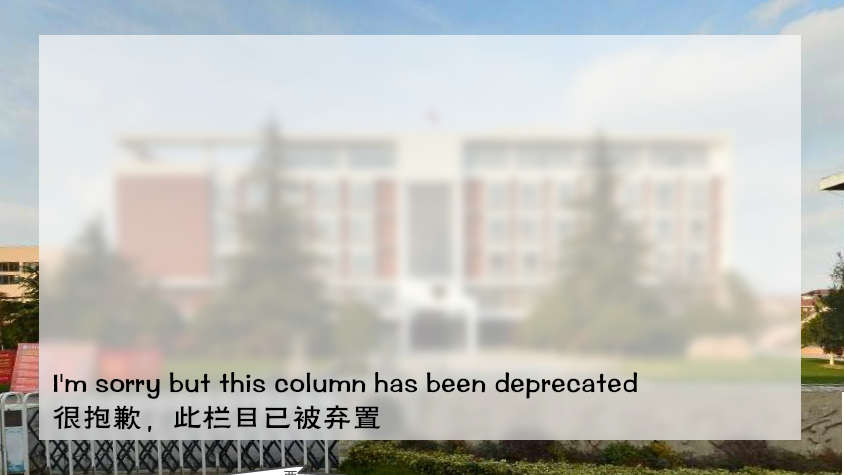
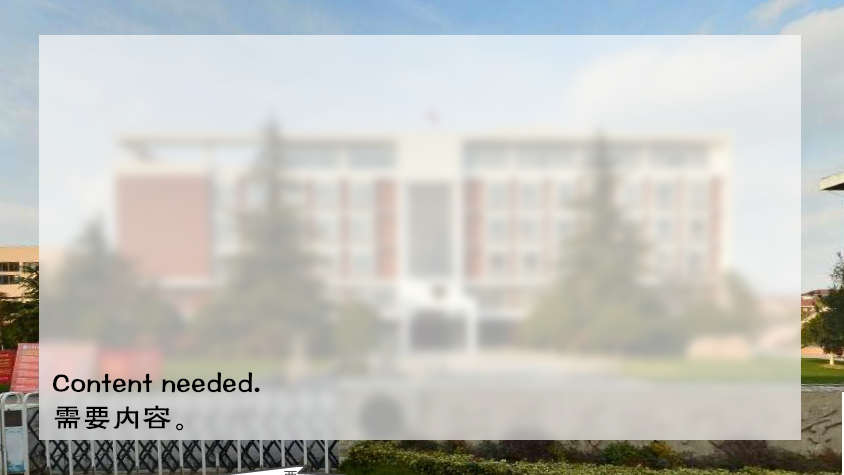
Add teachers

Changed region(s): [[0.0616, 0.7663, 0.7701, 0.9137]]

diff --git a/special/main/introduction/_vti_cnf/introduction-navigation.htm b/special/main/introduction/_vti_cnf/introduction-navigation.htm
@@ -1,18 +1,18 @@
 vti_encoding:SR|utf8-nl
 vti_author:SR|TESTUSER-0D65EB\\testuser
 vti_modifiedby:SR|TESTUSER-0D65EB\\testuser
-vti_timelastmodified:TR|17 Jan 2020 14:15:41 -0000
+vti_timelastmodified:TR|18 Jan 2020 15:10:16 -0000
 vti_timecreated:TR|15 Jan 2020 13:54:14 -0000
 vti_title:SR|班级介绍导航
 vti_extenderversion:SR|6.0.2.6551
-vti_backlinkinfo:VX|introduction/comitee/list.htm index.htm introduction/students/notice.htm introduction/about/about.htm introduction/introduction-navigation.htm
-vti_nexttolasttimemodified:TW|17 Jan 2020 13:32:50 -0000
-vti_cacheddtm:TX|17 Jan 2020 14:15:41 -0000
-vti_filesize:IR|880
+vti_backlinkinfo:VX|introduction/comitee/list.htm index.htm introduction/students/notice.htm introduction/teachers/list.htm introduction/about/about.htm introduction/introduction-navigation.htm
+vti_nexttolasttimemodified:TW|17 Jan 2020 14:15:41 -0000
+vti_cacheddtm:TX|18 Jan 2020 15:10:16 -0000
+vti_filesize:IR|955
 vti_cachedtitle:SR|班级介绍导航
 vti_cachedbodystyle:SR|<body>
-vti_cachedlinkinfo:VX|Q|../main.css H|../index.htm S|../images/back.png H|comitee/list.htm H|about/about.htm H|students/notice.htm S|班级介绍导航.jpg K|introduction-navigation.htm
-vti_cachedsvcrellinks:VX|FQUS|main.css FHUS|index.htm FSUS|images/back.png FHUS|introduction/comitee/list.htm FHUS|introduction/about/about.htm FHUS|introduction/students/notice.htm FSUS|introduction/班级介绍导航.jpg FKUS|introduction/introduction-navigation.htm
+vti_cachedlinkinfo:VX|Q|../main.css H|../index.htm S|../images/back.png H|comitee/list.htm H|about/about.htm H|students/notice.htm H|teachers/list.htm S|班级介绍导航.jpg K|introduction-navigation.htm
+vti_cachedsvcrellinks:VX|FQUS|main.css FHUS|index.htm FSUS|images/back.png FHUS|introduction/comitee/list.htm FHUS|introduction/about/about.htm FHUS|introduction/students/notice.htm FHUS|introduction/teachers/list.htm FSUS|introduction/班级介绍导航.jpg FKUS|introduction/introduction-navigation.htm
 vti_cachedneedsrewrite:BR|false
 vti_cachedhasbots:BR|false
 vti_cachedhastheme:BR|false

diff --git a/special/main/_vti_cnf/index.htm b/special/main/_vti_cnf/index.htm
@@ -2,19 +2,19 @@ vti_encoding:SR|utf8-nl
 vti_encoding:SR|utf8-nl
 vti_author:SR|TESTUSER-0D65EB\\testuser
 vti_modifiedby:SR|TESTUSER-0D65EB\\testuser
-vti_timelastmodified:TR|17 Jan 2020 14:01:07 -0000
+vti_timelastmodified:TR|18 Jan 2020 15:51:39 -0000
 vti_timecreated:TR|15 Jan 2020 11:08:48 -0000
 vti_title:SR|主页
 vti_extenderversion:SR|6.0.2.6551
-vti_backlinkinfo:VX|index.htm timeline/timeline-back.htm introduction/introduction-navigation.htm
-vti_nexttolasttimemodified:TW|17 Jan 2020 14:00:08 -0000
+vti_backlinkinfo:VX|index.htm timeline/timeline-back.htm album/album-list.htm introduction/introduction-navigation.htm
+vti_nexttolasttimemodified:TW|17 Jan 2020 14:01:07 -0000
 vti_syncwith_localhost\\c\:\\documents and settings\\testuser\\my documents\\my web sites\\mysite/c\:/documents and settings/testuser/my documents/my web sites/mysite:TR|15 Jan 2020 13:18:21 -0000
-vti_cacheddtm:TX|17 Jan 2020 14:01:07 -0000
-vti_filesize:IR|898
+vti_cacheddtm:TX|18 Jan 2020 15:51:39 -0000
+vti_filesize:IR|1002
 vti_cachedtitle:SR|主页
 vti_cachedbodystyle:SR|<body>
-vti_cachedlinkinfo:VX|Q|main.css H|timeline/timeline.htm H|introduction/introduction-navigation.htm S|images/button-extended.png K|index.htm S|background-compressed.mp4
-vti_cachedsvcrellinks:VX|FQUS|main.css FHUS|timeline/timeline.htm FHUS|introduction/introduction-navigation.htm FSUS|images/button-extended.png FKUS|index.htm FSUS|background-compressed.mp4
+vti_cachedlinkinfo:VX|Q|main.css H|timeline/timeline.htm H|introduction/introduction-navigation.htm H|album/album-list.htm S|images/button-extended.png K|index.htm S|background-compressed.mp4
+vti_cachedsvcrellinks:VX|FQUS|main.css FHUS|timeline/timeline.htm FHUS|introduction/introduction-navigation.htm FHUS|album/album-list.htm FSUS|images/button-extended.png FKUS|index.htm FSUS|background-compressed.mp4
 vti_cachedneedsrewrite:BR|false
 vti_cachedhasbots:BR|false
 vti_cachedhastheme:BR|false

diff --git a/special/main/introduction/teachers/_vti_cnf/list.htm b/special/main/introduction/teachers/_vti_cnf/list.htm
@@ -1,0 +1,21 @@
+vti_encoding:SR|utf8-nl
+vti_author:SR|TESTUSER-0D65EB\\testuser
+vti_modifiedby:SR|TESTUSER-0D65EB\\testuser
+vti_timelastmodified:TR|18 Jan 2020 15:09:49 -0000
+vti_timecreated:TR|15 Jan 2020 14:41:36 -0000
+vti_extenderversion:SR|6.0.2.6551
+vti_nexttolasttimemodified:TW|18 Jan 2020 15:09:19 -0000
+vti_backlinkinfo:VX|introduction/teachers/list.htm introduction/teachers/math.htm introduction/teachers/chinese.htm introduction/teachers/chemistry.htm introduction/teachers/english.htm introduction/introduction-navigation.htm
+vti_cacheddtm:TX|18 Jan 2020 15:09:49 -0000
+vti_filesize:IR|747
+vti_cachedbodystyle:SR|<body>
+vti_cachedlinkinfo:VX|H|chinese.htm H|math.htm H|english.htm H|chemistry.htm H|../introduction-navigation.htm S|老师首页.jpg K|list.htm
+vti_cachedsvcrellinks:VX|FHUS|introduction/teachers/chinese.htm FHUS|introduction/teachers/math.htm FHUS|introduction/teachers/english.htm FHUS|introduction/teachers/chemistry.htm FHUS|introduction/introduction-navigation.htm FSUS|introduction/teachers/老师首页.jpg FKUS|introduction/teachers/list.htm
+vti_cachedneedsrewrite:BR|false
+vti_cachedhasbots:BR|false
+vti_cachedhastheme:BR|false
+vti_cachedhasborder:BR|false
+vti_metatags:VR|HTTP-EQUIV=Content-Type text/html;\\ charset=utf-8 GENERATOR Microsoft\\ FrontPage\\ 6.0 ProgId FrontPage.Editor.Document
+vti_charset:SR|utf-8
+vti_progid:SR|FrontPage.Editor.Document
+vti_generator:SR|Microsoft FrontPage 6.0

diff --git a/special/main/album/_vti_cnf/album-list.htm b/special/main/album/_vti_cnf/album-list.htm
@@ -1,0 +1,24 @@
+vti_encoding:SR|utf8-nl
+vti_author:SR|TESTUSER-0D65EB\\testuser
+vti_modifiedby:SR|TESTUSER-0D65EB\\testuser
+vti_timelastmodified:TR|18 Jan 2020 15:50:51 -0000
+vti_timecreated:TR|15 Jan 2020 13:54:14 -0000
+vti_title:SR|班级介绍导航
+vti_extenderversion:SR|6.0.2.6551
+vti_nexttolasttimemodified:TW|18 Jan 2020 15:50:40 -0000
+vti_backlinkinfo:VX|index.htm album/album-list.htm
+vti_cacheddtm:TX|18 Jan 2020 15:50:40 -0000
+vti_filesize:IR|691
+vti_cachedtitle:SR|班级介绍导航
+vti_cachedbodystyle:SR|<body>
+vti_cachedlinkinfo:VX|Q|../main.css H|../index.htm S|../images/back.png S|精彩瞬间导航-1.jpg K|album-list.htm
+vti_cachedsvcrellinks:VX|FQUS|main.css FHUS|index.htm FSUS|images/back.png FSUS|album/精彩瞬间导航-1.jpg FKUS|album/album-list.htm
+vti_cachedneedsrewrite:BR|false
+vti_cachedhasbots:BR|false
+vti_cachedhastheme:BR|false
+vti_cachedhasborder:BR|false
+vti_metatags:VR|HTTP-EQUIV=Content-Language zh-cn HTTP-EQUIV=Content-Type text/html;\\ charset=utf-8 GENERATOR Microsoft\\ FrontPage\\ 6.0 ProgId FrontPage.Editor.Document
+vti_charset:SR|utf-8
+vti_language:SR|zh-cn
+vti_progid:SR|FrontPage.Editor.Document
+vti_generator:SR|Microsoft FrontPage 6.0

diff --git a/special/main/introduction/teachers/_vti_cnf/chemistry.htm b/special/main/introduction/teachers/_vti_cnf/chemistry.htm
@@ -1,0 +1,23 @@
+vti_encoding:SR|utf8-nl
+vti_author:SR|TESTUSER-0D65EB\\testuser
+vti_modifiedby:SR|TESTUSER-0D65EB\\testuser
+vti_timelastmodified:TR|18 Jan 2020 15:08:18 -0000
+vti_timecreated:TR|18 Jan 2020 15:07:02 -0000
+vti_title:SR|新建网页 1
+vti_extenderversion:SR|6.0.2.6551
+vti_backlinkinfo:VX|introduction/teachers/list.htm introduction/teachers/chemistry.htm
+vti_nexttolasttimemodified:TW|18 Jan 2020 15:07:12 -0000
+vti_cacheddtm:TX|18 Jan 2020 15:08:18 -0000
+vti_filesize:IR|457
+vti_cachedtitle:SR|新建网页 1
+vti_cachedbodystyle:SR|<body>
+vti_cachedlinkinfo:VX|H|list.htm S|王敏.jpg K|chemistry.htm
+vti_cachedsvcrellinks:VX|FHUS|introduction/teachers/list.htm FSUS|introduction/teachers/王敏.jpg FKUS|introduction/teachers/chemistry.htm
+vti_cachedneedsrewrite:BR|false
+vti_cachedhasbots:BR|false
+vti_cachedhastheme:BR|false
+vti_cachedhasborder:BR|false
+vti_metatags:VR|HTTP-EQUIV=Content-Type text/html;\\ charset=utf-8 GENERATOR Microsoft\\ FrontPage\\ 6.0 ProgId FrontPage.Editor.Document
+vti_charset:SR|utf-8
+vti_progid:SR|FrontPage.Editor.Document
+vti_generator:SR|Microsoft FrontPage 6.0

diff --git a/special/main/introduction/teachers/_vti_cnf/chinese.htm b/special/main/introduction/teachers/_vti_cnf/chinese.htm
@@ -1,0 +1,23 @@
+vti_encoding:SR|utf8-nl
+vti_author:SR|TESTUSER-0D65EB\\testuser
+vti_modifiedby:SR|TESTUSER-0D65EB\\testuser
+vti_timelastmodified:TR|18 Jan 2020 15:07:30 -0000
+vti_timecreated:TR|18 Jan 2020 15:05:21 -0000
+vti_title:SR|新建网页 1
+vti_extenderversion:SR|6.0.2.6551
+vti_backlinkinfo:VX|introduction/teachers/list.htm introduction/teachers/chinese.htm
+vti_nexttolasttimemodified:TW|18 Jan 2020 15:05:50 -0000
+vti_cacheddtm:TX|18 Jan 2020 15:07:30 -0000
+vti_filesize:IR|459
+vti_cachedtitle:SR|新建网页 1
+vti_cachedbodystyle:SR|<body>
+vti_cachedlinkinfo:VX|H|list.htm S|蔡健华.jpg K|chinese.htm
+vti_cachedsvcrellinks:VX|FHUS|introduction/teachers/list.htm FSUS|introduction/teachers/蔡健华.jpg FKUS|introduction/teachers/chinese.htm
+vti_cachedneedsrewrite:BR|false
+vti_cachedhasbots:BR|false
+vti_cachedhastheme:BR|false
+vti_cachedhasborder:BR|false
+vti_metatags:VR|HTTP-EQUIV=Content-Type text/html;\\ charset=utf-8 GENERATOR Microsoft\\ FrontPage\\ 6.0 ProgId FrontPage.Editor.Document
+vti_charset:SR|utf-8
+vti_progid:SR|FrontPage.Editor.Document
+vti_generator:SR|Microsoft FrontPage 6.0

diff --git a/special/main/introduction/teachers/_vti_cnf/english.htm b/special/main/introduction/teachers/_vti_cnf/english.htm
@@ -1,0 +1,23 @@
+vti_encoding:SR|utf8-nl
+vti_author:SR|TESTUSER-0D65EB\\testuser
+vti_modifiedby:SR|TESTUSER-0D65EB\\testuser
+vti_timelastmodified:TR|18 Jan 2020 15:08:19 -0000
+vti_timecreated:TR|18 Jan 2020 15:06:11 -0000
+vti_title:SR|新建网页 1
+vti_extenderversion:SR|6.0.2.6551
+vti_backlinkinfo:VX|introduction/teachers/list.htm introduction/teachers/english.htm
+vti_nexttolasttimemodified:TW|18 Jan 2020 15:06:19 -0000
+vti_cacheddtm:TX|18 Jan 2020 15:08:19 -0000
+vti_filesize:IR|459
+vti_cachedtitle:SR|新建网页 1
+vti_cachedbodystyle:SR|<body>
+vti_cachedlinkinfo:VX|H|list.htm S|东方虬.jpg K|english.htm
+vti_cachedsvcrellinks:VX|FHUS|introduction/teachers/list.htm FSUS|introduction/teachers/东方虬.jpg FKUS|introduction/teachers/english.htm
+vti_cachedneedsrewrite:BR|false
+vti_cachedhasbots:BR|false
+vti_cachedhastheme:BR|false
+vti_cachedhasborder:BR|false
+vti_metatags:VR|HTTP-EQUIV=Content-Type text/html;\\ charset=utf-8 GENERATOR Microsoft\\ FrontPage\\ 6.0 ProgId FrontPage.Editor.Document
+vti_charset:SR|utf-8
+vti_progid:SR|FrontPage.Editor.Document
+vti_generator:SR|Microsoft FrontPage 6.0

diff --git a/special/main/introduction/teachers/_vti_cnf/math.htm b/special/main/introduction/teachers/_vti_cnf/math.htm
@@ -1,0 +1,23 @@
+vti_encoding:SR|utf8-nl
+vti_author:SR|TESTUSER-0D65EB\\testuser
+vti_modifiedby:SR|TESTUSER-0D65EB\\testuser
+vti_timelastmodified:TR|18 Jan 2020 15:08:19 -0000
+vti_timecreated:TR|18 Jan 2020 15:05:57 -0000
+vti_title:SR|新建网页 1
+vti_extenderversion:SR|6.0.2.6551
+vti_backlinkinfo:VX|introduction/teachers/list.htm introduction/teachers/math.htm
+vti_nexttolasttimemodified:TW|18 Jan 2020 15:06:04 -0000
+vti_cacheddtm:TX|18 Jan 2020 15:08:19 -0000
+vti_filesize:IR|456
+vti_cachedtitle:SR|新建网页 1
+vti_cachedbodystyle:SR|<body>
+vti_cachedlinkinfo:VX|H|list.htm S|邓杰.jpg K|math.htm
+vti_cachedsvcrellinks:VX|FHUS|introduction/teachers/list.htm FSUS|introduction/teachers/邓杰.jpg FKUS|introduction/teachers/math.htm
+vti_cachedneedsrewrite:BR|false
+vti_cachedhasbots:BR|false
+vti_cachedhastheme:BR|false
+vti_cachedhasborder:BR|false
+vti_metatags:VR|HTTP-EQUIV=Content-Type text/html;\\ charset=utf-8 GENERATOR Microsoft\\ FrontPage\\ 6.0 ProgId FrontPage.Editor.Document
+vti_charset:SR|utf-8
+vti_progid:SR|FrontPage.Editor.Document
+vti_generator:SR|Microsoft FrontPage 6.0

diff --git a/special/main/introduction/teachers/list.htm b/special/main/introduction/teachers/list.htm
@@ -1,0 +1,23 @@
+<html>
+
+<head>
+<meta http-equiv="Content-Type" content="text/html; charset=utf-8">
+<title></title>
+<meta name="GENERATOR" content="Microsoft FrontPage 6.0">
+<meta name="ProgId" content="FrontPage.Editor.Document">
+</head>
+
+<body>
+
+<p><map name="FPMap0">
+<area href="chinese.htm" shape="rect" coords="491, 606, 664, 708">
+<area href="math.htm" shape="rect" coords="691, 607, 866, 708">
+<area coords="895, 606, 1070, 707" shape="rect" href="english.htm">
+<area coords="1296, 608, 1470, 710" shape="rect" href="chemistry.htm">
+<area href="../introduction-navigation.htm" shape="rect" coords="1378, 11, 1790, 400">
+</map>
+<img border="0" src="老师首页.jpg" width="1920" height="1080" usemap="#FPMap0"></p>
+
+</body>
+
+</html>

diff --git a/special/main/_vti_cnf/main.css b/special/main/_vti_cnf/main.css
@@ -4,7 +4,7 @@ vti_modifiedby:SR|TESTUSER-0D65EB\\testuser
 vti_timelastmodified:TR|15 Jan 2020 14:30:21 -0000
 vti_timecreated:TR|15 Jan 2020 14:29:55 -0000
 vti_extenderversion:SR|6.0.2.6551
-vti_backlinkinfo:VX|index.htm introduction/students/notice.htm introduction/about/about.htm introduction/introduction-navigation.htm
+vti_backlinkinfo:VX|index.htm introduction/students/notice.htm introduction/about/about.htm album/album-list.htm introduction/introduction-navigation.htm
 vti_nexttolasttimemodified:TW|15 Jan 2020 14:30:05 -0000
 vti_cacheddtm:TX|15 Jan 2020 14:30:21 -0000
 vti_filesize:IR|158

diff --git a/special/main/album/album-list.htm b/special/main/album/album-list.htm
@@ -17,12 +17,9 @@
 </div>
 <div class="content-pic">
 <map name="FPMap0">
-<area href="comitee/list.htm" shape="rect" coords="157, 554, 480, 680">
-<area href="about/about.htm" shape="rect" coords="506, 9, 912, 113">
-<area href="students/notice.htm" shape="rect" coords="898, 598, 1440, 693">
-<area href="teachers/list.htm" shape="rect" coords="589, 812, 1191, 922">
+
 </map>
-<img border="0" src="班级介绍导航.jpg" usemap="#FPMap0">
+<img border="0" src="精彩瞬间导航-1.jpg" usemap="#FPMap0" width="1920" height="1080">
 </div>
 </p>
 

diff --git a/special/main/introduction/teachers/chinese.htm b/special/main/introduction/teachers/chinese.htm
@@ -1,0 +1,18 @@
+<html>
+
+<head>
+<meta http-equiv="Content-Type" content="text/html; charset=utf-8">
+<title>新建网页 1</title>
+<meta name="GENERATOR" content="Microsoft FrontPage 6.0">
+<meta name="ProgId" content="FrontPage.Editor.Document">
+</head>
+
+<body>
+
+<p><map name="FPMap0">
+<area href="list.htm" shape="rect" coords="1515, 3, 1913, 369">
+</map><img border="0" src="蔡健华.jpg" width="1920" height="1080" usemap="#FPMap0"></p>
+
+</body>
+
+</html>
